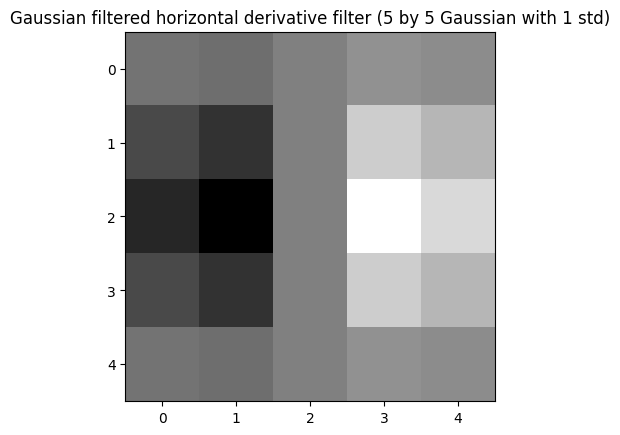
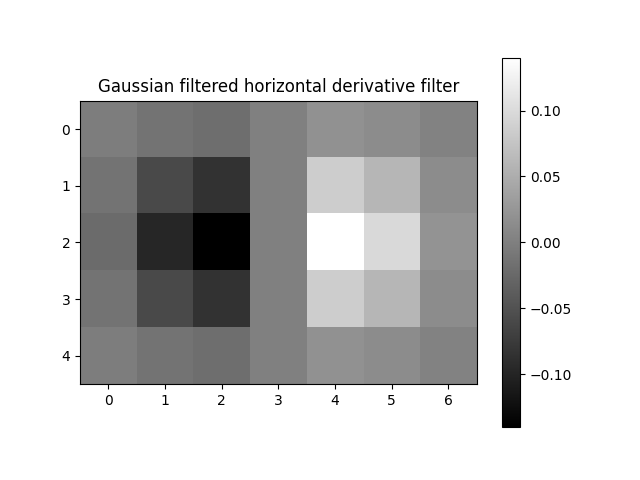
switch some wrong images

diff --git a/_cs180/project_2.md b/_cs180/project_2.md
@@ -604,7 +604,7 @@ For the Lian/Taffy example, the filenames indicate an aligned-input pair and sep
 
 <div style="display: flex; gap: 10px; margin-bottom: 6px;">
   <figure style="width: 48%; margin: 0;">
-    <img src="/images/cs180/proj2/output/Part_2_2/freq_domain/low/.png" style="width: 100%;">
+    <img src="/images/cs180/proj2/output/Part_2_2/freq_domain/low.png" style="width: 100%;">
     <figcaption style="text-align: center;">Low-frequency spectrum</figcaption>
   </figure>
   <figure style="width: 48%; margin: 0;">
